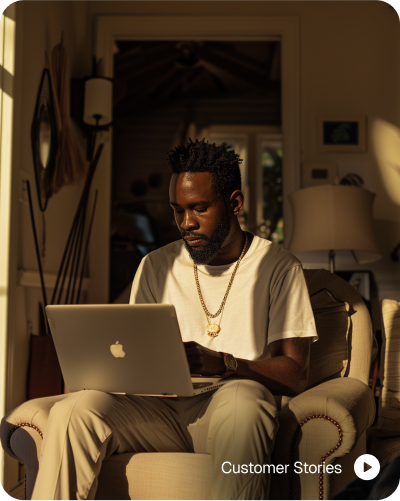
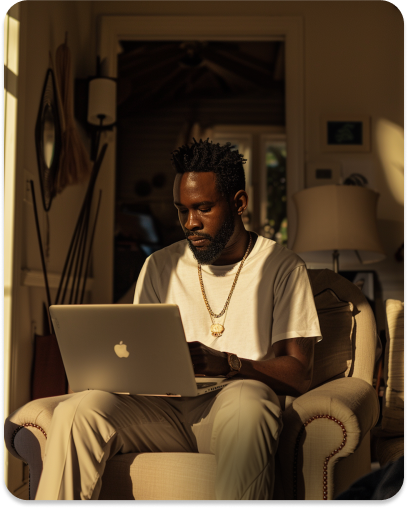
Added play button on testimonial image

diff --git a/src/components/modal/VideoPopup.jsx b/src/components/modal/VideoPopup.jsx
@@ -1,0 +1,39 @@
+import React, { useState } from "react";
+import Modal from "react-modal";
+
+Modal.setAppElement("#root"); // Set the root element for accessibility
+
+const VideoPopup = () => {
+  const [modalIsOpen, setModalIsOpen] = useState(false);
+  const [video,setVideo] = useState();
+
+  const openModal = () => setModalIsOpen(true);
+  const closeModal = () => setModalIsOpen(false);
+
+  return (
+    <div className="flex flex-col items-center justify-center min-h-screen bg-gray-100">
+      <button onClick={openModal} className="px-4 py-2">
+        Play Video
+      </button>
+
+      <Modal
+        isOpen={modalIsOpen}
+        onRequestClose={closeModal}
+        className="fixed inset-0 flex items-center justify-center bg-black bg-opacity-50"
+        overlayClassName="fixed inset-0 bg-black bg-opacity-50"
+      >
+        <div className="bg-white rounded-lg p-4 max-w-2xl w-full relative">
+          <button onClick={closeModal} className="absolute top-2 right-2 text-gray-600 text-xl">
+            ✖
+          </button>
+          <video controls autoPlay className="w-full rounded-md">
+            <source src="https://www.w3schools.com/html/mov_bbb.mp4" type="video/mp4" />
+            Your browser does not support the video tag.
+          </video>
+        </div>
+      </Modal>
+    </div>
+  );
+};
+
+export default VideoPopup;

diff --git a/src/components/testimonials/Testimonials.jsx b/src/components/testimonials/Testimonials.jsx
@@ -19,8 +19,14 @@ const Testimonials = () => {
 
                 {/* Grid */}
                 <div className="grid grid-cols-1 lg:grid-cols-3 items-center gap-12 mt-16">
-                    <div className='mx-auto'>
+                    <div className='mx-auto relative'>
                         <img src="/assets/imgs/global/man-with-laptop.png" alt="Man With Laptop" />
+
+                        {/* Play Button */}
+                        <div className="flex items-center gap-3 text-white absolute bottom-8 right-5">
+                            <span>Customer Stories</span>
+                            <img className='cursor-pointer' src="/assets/icons/play-button.svg" alt="" />
+                        </div>
                     </div>
                     <div className="lg:col-span-2 bg-white rounded-3xl p-8 h-full">
                         <img className='mb-12' src="/assets/icons/quote.svg" alt="" />
